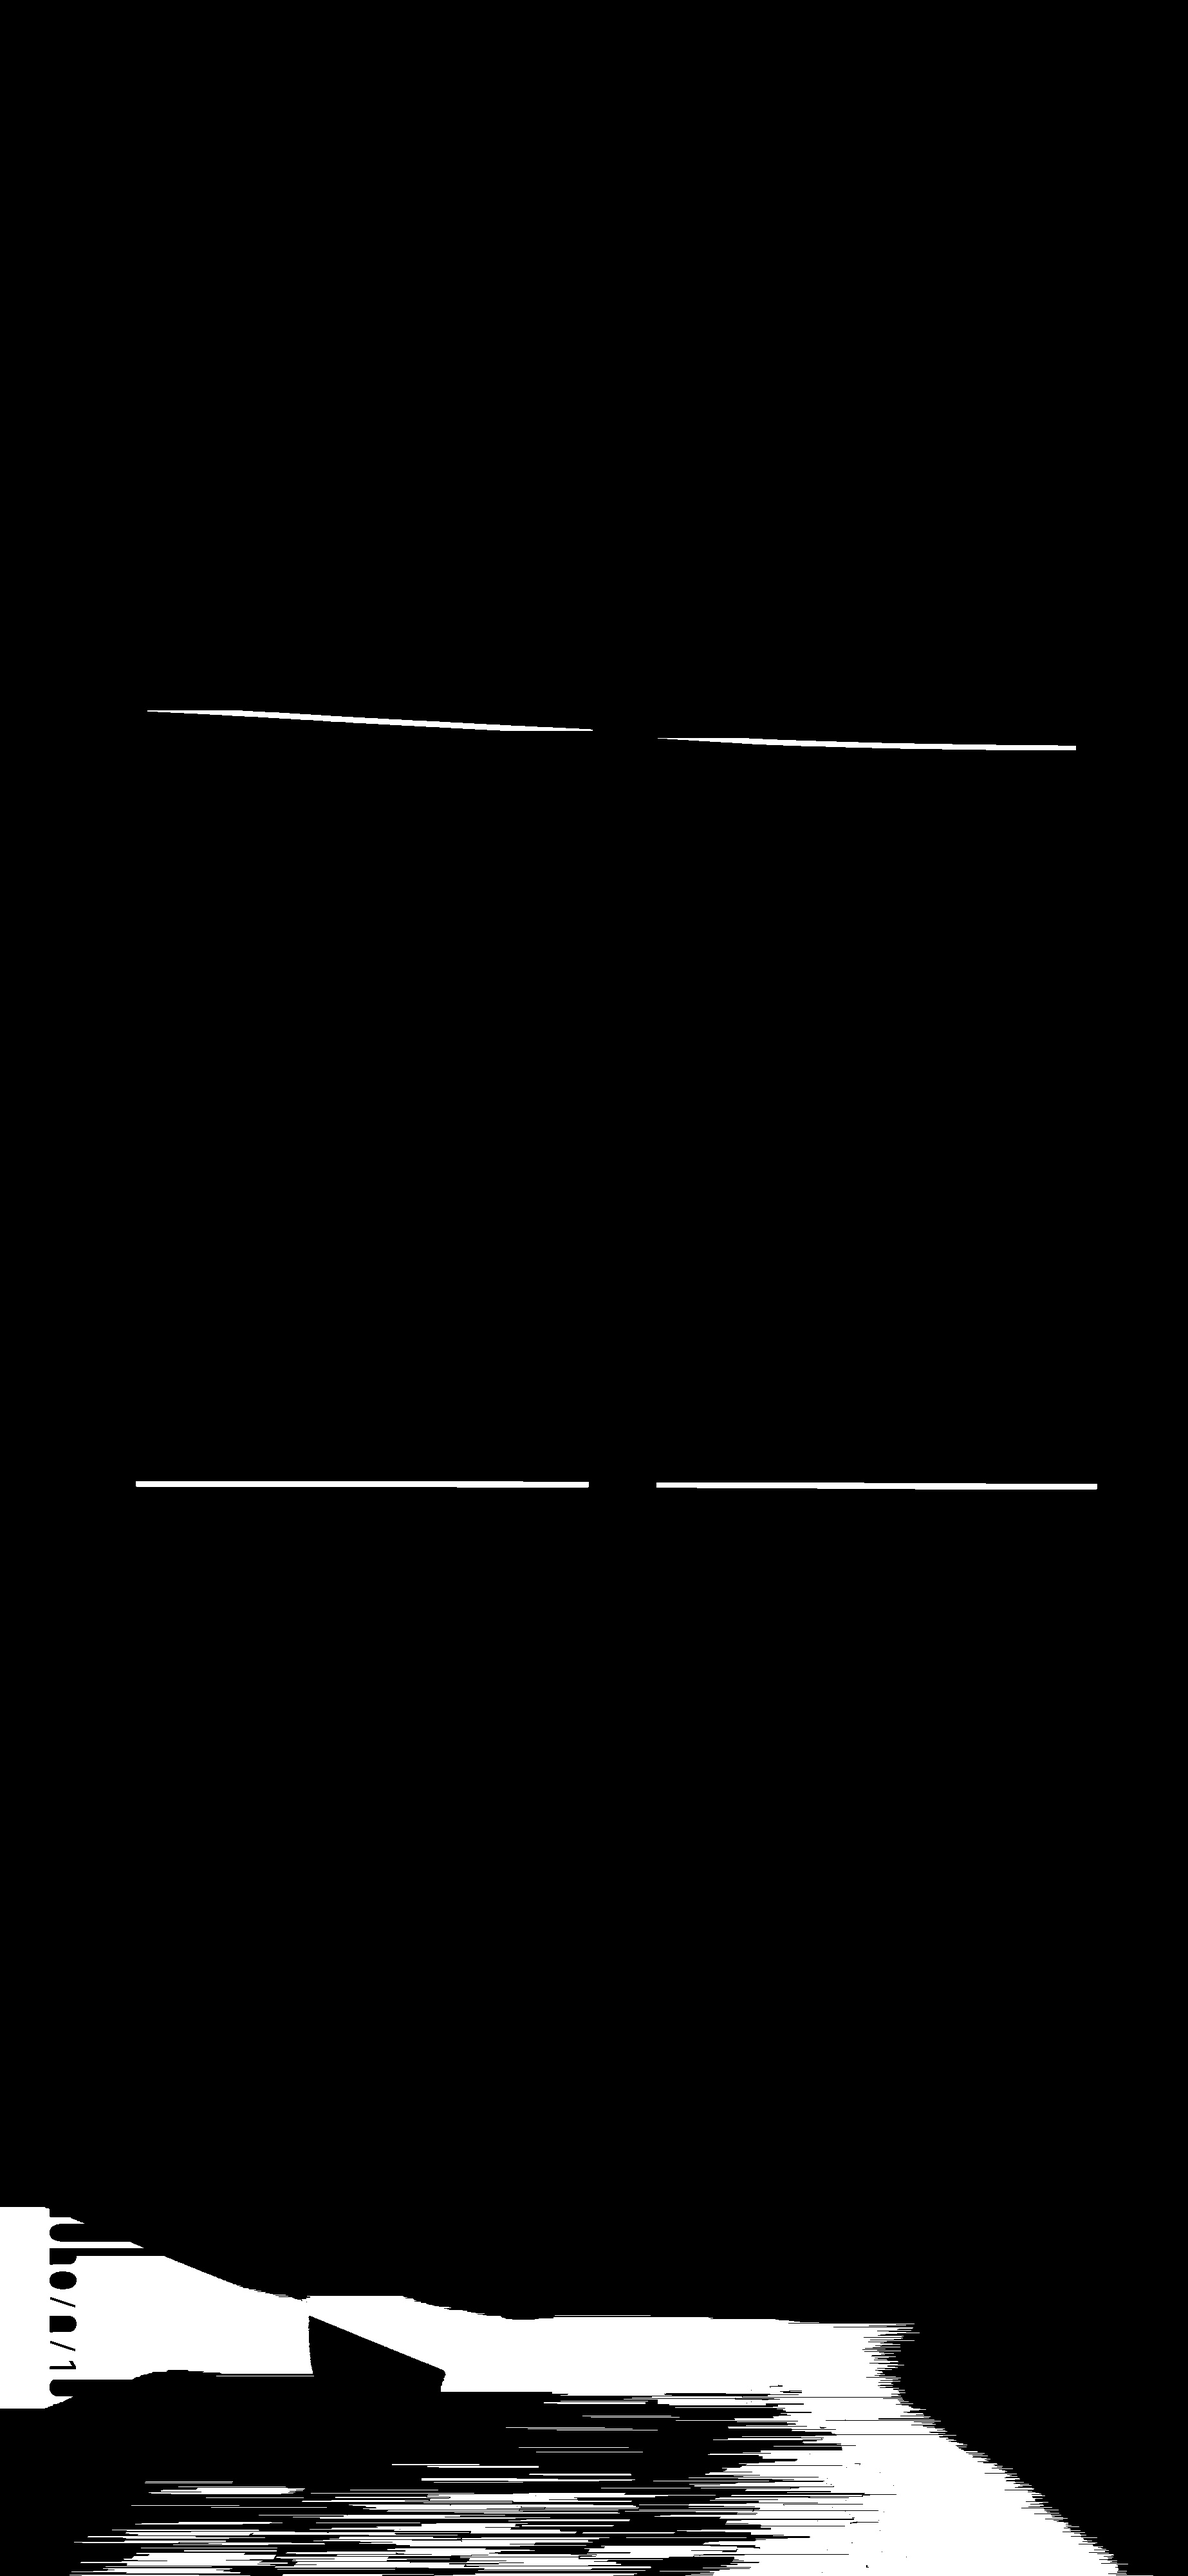
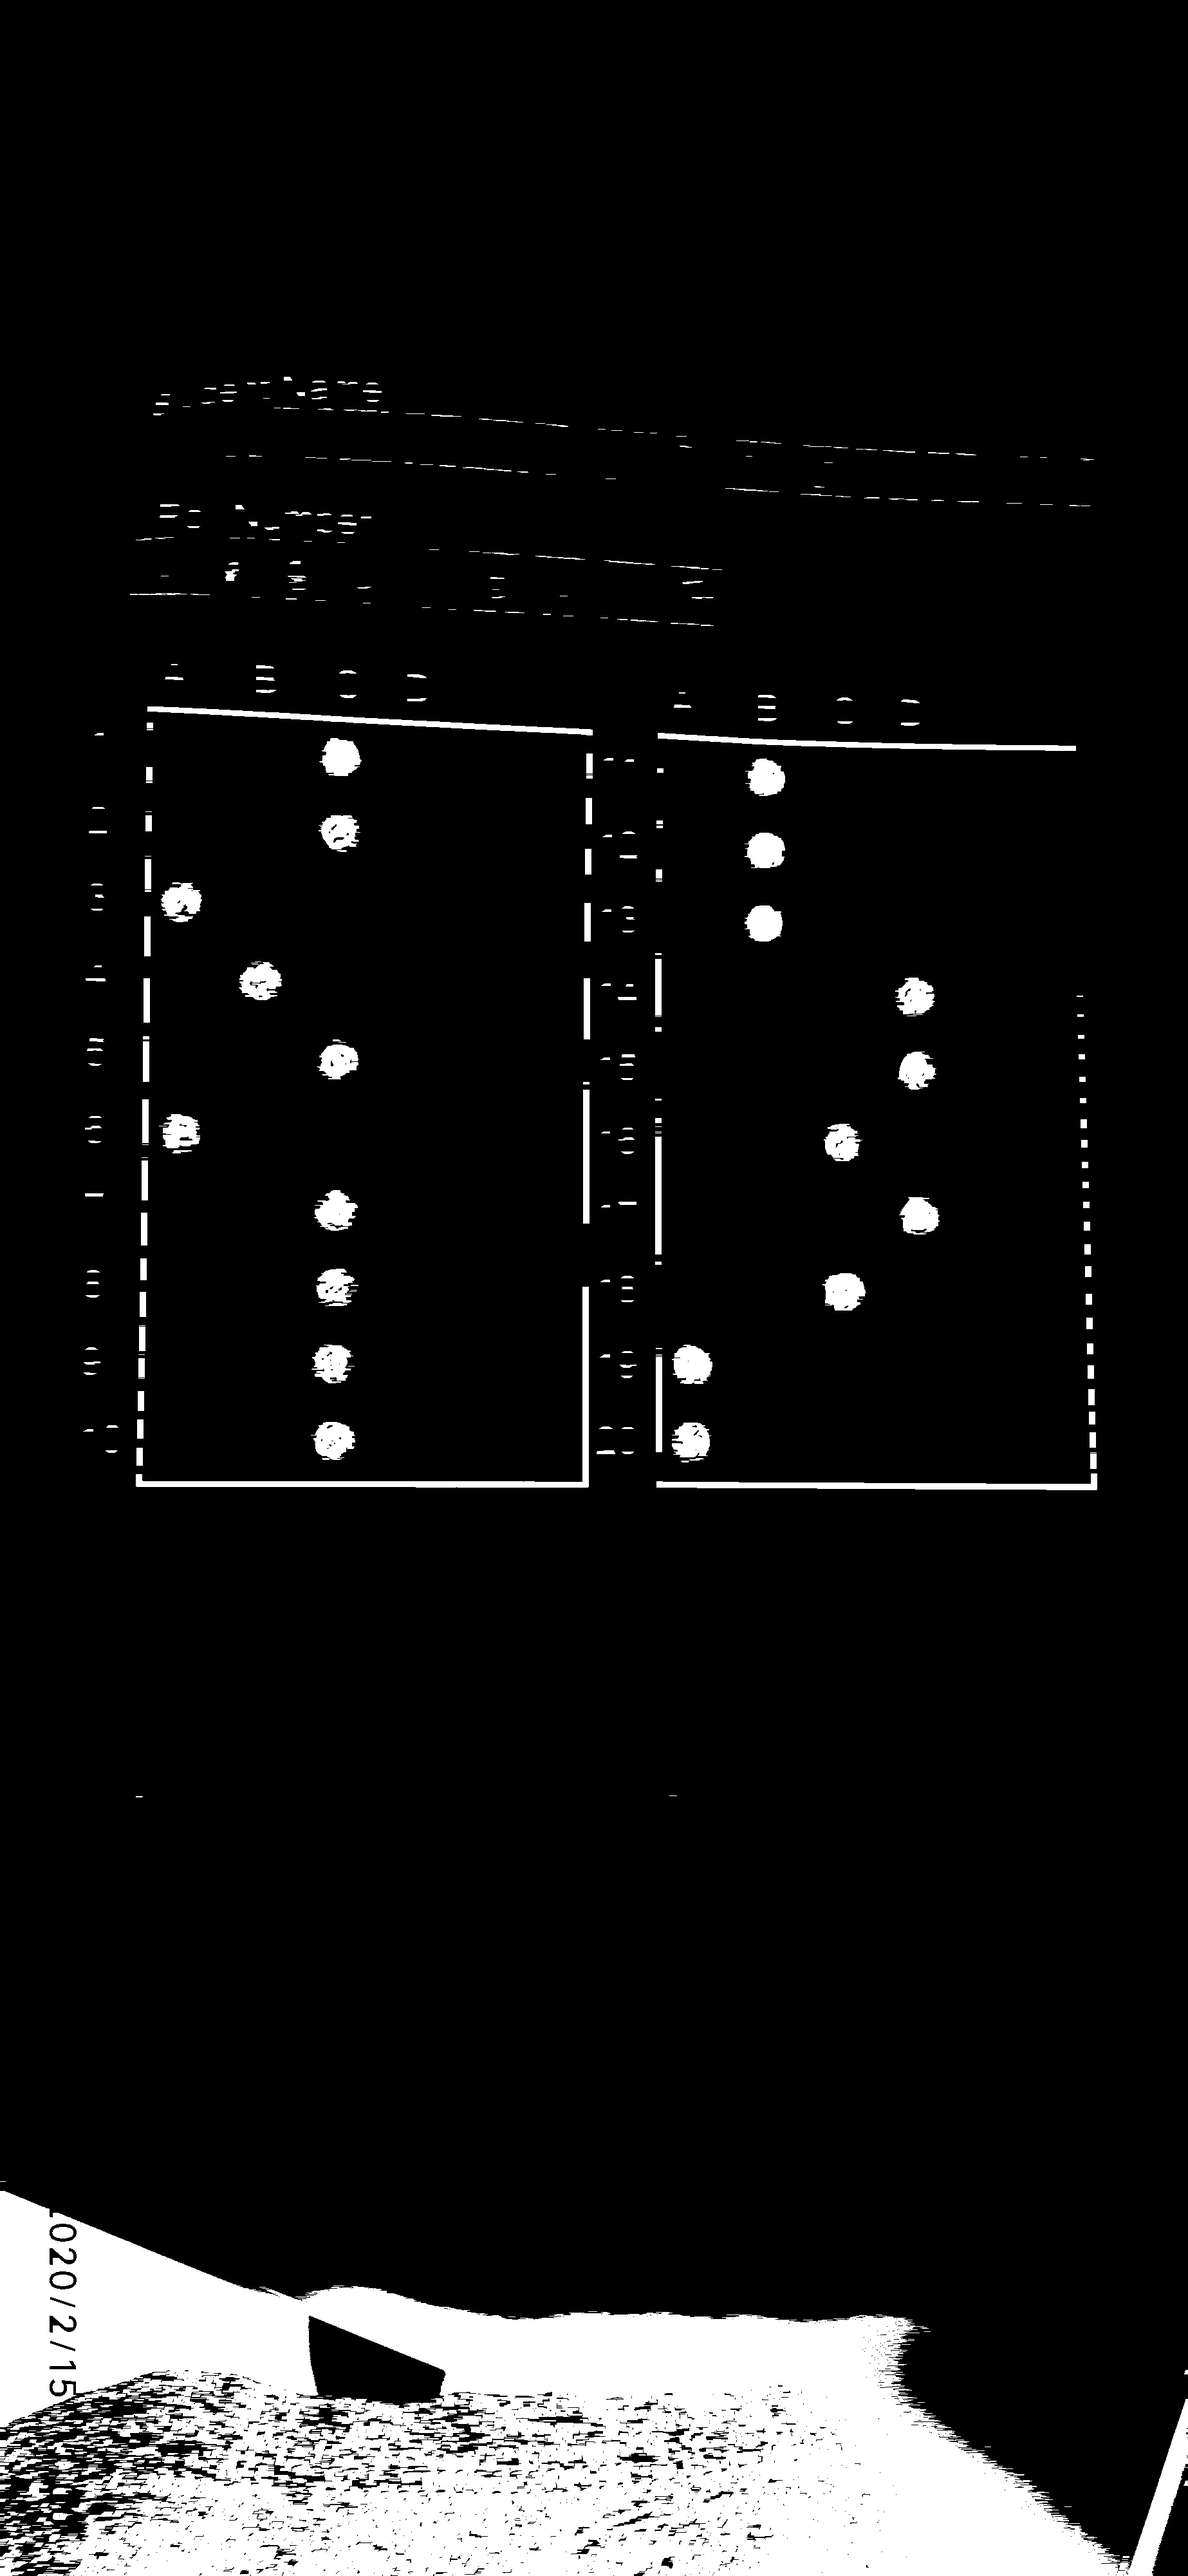
made changes

diff --git a/box_detection.py b/box_detection.py
@@ -1,7 +1,7 @@
 import cv2
 import numpy as np
 import os
-
+from transform_example import transfer
 
 def sort_contours(cnts, method="left-to-right"):
     # initialize the reverse flag and sort index
@@ -29,14 +29,24 @@ def sort_contours(cnts, method="left-to-right"):
 def box_extraction(img_for_box_extraction_path, cropped_dir_path):
 
     img = cv2.imread(img_for_box_extraction_path, 0)  # Read the image
+    img2 = cv2.imread(img_for_box_extraction_path, 0)
+    # img = cv2.blur(img,(10,10))
     (thresh, img_bin) = cv2.threshold(img, 128, 255,
                                       cv2.THRESH_BINARY | cv2.THRESH_OTSU)  # Thresholding the image
     img_bin = 255-img_bin  # Invert the image
 
+    # img = np.full((100,80,3), 12, np.uint8)
+
+
+    # threshold image
+    # ret, threshed_img = cv2.threshold(cv2.cvtColor(img, cv2.COLOR_BGR2GRAY),
+                    # 127, 255, cv2.THRESH_BINARY)
+    img = cv2.blur(img,(20,20))
+
     cv2.imwrite("Image_bin.jpg",img_bin)
 
     # Defining a kernel length
-    kernel_length = np.array(img).shape[1]//40
+    kernel_length = np.array(img).shape[1]//400
 
     # A verticle kernel of (1 X kernel_length), which will detect all the verticle lines from the image.
     verticle_kernel = cv2.getStructuringElement(cv2.MORPH_RECT, (1, kernel_length))
@@ -68,7 +78,7 @@ def box_extraction(img_for_box_extraction_path, cropped_dir_path):
     cv2.imwrite("img_final_bin.jpg",img_final_bin)
     # Find contours for image, which will detect all the boxes
     contours, hierarchy = cv2.findContours(
-        img_final_bin, cv2.RETR_TREE, cv2.CHAIN_APPROX_SIMPLE)
+        img_final_bin, cv2.RETR_TREE, cv2.CHAIN_APPROX_NONE)
     # print(len(contours))
     # Sort all the contours by top to bottom.
     (contours, boundingBoxes) = sort_contours(contours, method="left-to-right")
@@ -86,18 +96,110 @@ def box_extraction(img_for_box_extraction_path, cropped_dir_path):
 
 
             if ((x>(x1+20))):
-                if (w > 400 and h > 60) and (h > 1.5*w):
+            # if ((x==x1)):
+                if (w > 400 and h > 60) and (h > 1.3*w):
                     idx += 1
-                    # print (x1)
-                    # print ("    ")
-                    # print(x)
-                    # print ("\n")
-                    # print (x)
-                    # print ("\n")
-                    new_img = img[y:y+h, x:x+w]
+
+                    rect = cv2.minAreaRect(c)
+                    box = cv2.boxPoints(rect)
+
+                    box = np.int0(box)
+                    # draw a red 'nghien' rectangle
+                    cv2.drawContours(img, [box], 0, (0, 0, 255))
+                    cv2.imwrite("contour1.png", img)
+                    # finally, get the min enclosing circle
+
+
+                    # hull = cv.c(points[, hull[, clockwise[, returnPoints]]
+                    # hull = cv2.convexHull(c)
+                    # print(hull)
+
+
+
+                    # extLeft = tuple(c[c[:, :, 0].argmin()][0])
+                    # extRight = tuple(c[c[:, :, 0].argmax()][0])
+                    # extTop = tuple(c[c[:, :, 1].argmin()][0])
+                    # extBot = tuple(c[c[:, :, 1].argmax()][0])
+
+                    # hull = []
+                    #
+                    # # calculate points for each contour
+                    #
+                    # hull.append(cv2.convexHull(c, False))
+                    #
+                    # # create an empty black image
+                    # drawing = np.zeros((thresh.shape[0], thresh.shape[1], 3), np.uint8)
+                    #
+                    # # draw contours and hull points
+                    #
+                    # color_contours = (0, 255, 0) # color for contours
+                    # color = (255, 255, 255) # color for convex hull
+                    # # draw contours
+                    # cv2.drawContours(drawing, contours, i, color_contours, 2, 8, hierarchy)
+                    # # draw convex hull
+                    # cv2.drawContours(drawing, hull, i, color, 2, 8)
+
+
+                    extTop="(%s, %s)" %(box[1][0],box[1][1])
+                    extRight="(%s, %s)" %(box[2][0],box[2][1])
+                    extBot="(%s, %s)" %(box[3][0],box[3][1])
+                    extLeft="(%s, %s)" %(box[0][0],box[0][1])
+
+                    coords="[%s, %s, %s, %s]" %(extTop,extRight,extBot,extLeft)
+
+                    new_img = transfer(img2, coords)
                     cv2.imwrite(cropped_dir_path+str(idx) + '.png', new_img)
+
+
+
+                    box = np.int0(box)
+                    # draw a red 'nghien' rectangle
+                    cv2.drawContours(img, [box], 0, (0, 0, 255))
+                    cv2.imwrite("contour1.png", img)
+                    # coords="[(189.96536, 1084.9089), (822.29297, 1050.0603), (990.5377, 2167.3167), (328.2101, 2246.1653)]"
+                    # [(189.96536, 1084.9089), (852.29297, 1006.0603), (990.5377, 2167.3167), (328.2101, 2246.1653)]
                     x1=x
                     y1=y
+                    # print(coords)
+
+                    # img1 = cv2.imread(img_for_box_extraction_path, 0)  # Read the image
+                    # cv2.drawContours(img1,c, -1, (0, 255, 255), 2)
+                    # cv2.circle(img1, (189,1084) , 8, (0, 0, 255), -1)
+                    # cv2.circle(img1, (852,1006) , 8, (0, 255, 0), -1)
+                    # cv2.circle(img1, (990,2167) , 8, (255, 0, 0), -1)
+                    # cv2.circle(img1, (328,2246) , 8, (255, 255, 0), -1)
+                    # cv2.imwrite('new.png', img1)
+
+
+                    # if((extLeft[1])>(extBot[1])):
+                    #     coords="[%s, %s, %s, %s]" %(extLeft,extTop,extRight,extBot)
+                    #
+                    # else:
+                    #     coords="[%s, %s, %s, %s]" %(extTop,extRight,extBot,extLeft)
+
+                    # print (extLeft)
+                    # print ("    ")
+                    # print(extRight)
+                    # print ("    ")
+                    # print (extTop)
+                    # print ("    ")
+                    # print(extBot)
+                    # print ("\n")
+
+                    # box = cv2.boxPoints(c)
+
+                    # coords=(str1+ (extLeft) + str3 + (extTop)+ str3 +(extRight)+ str3 + (extBot)+str2)
+
+
+                    # print(coords)
+
+                    # print (x1)
+                    # print ("    ")
+                    # print(w)
+                    # print ("\n")
+                    # print (h)
+                    # print ("\n")
+
 
 
 
@@ -118,16 +220,11 @@ for j in range(1, 68):
     dirname =("test/Cropped"+ str(j))
     os.mkdir(dirname)
 
-# for j in range(1, 11):
-# 	inputs = cv2.imread("result/result_" + str(j) + ".jpg",0)
-#
 
 
-# data/image_20.jpg
-
-for j in range(1, 68):
+for j in range(1,68):
     if((j!=26)and(j!=48)):
         box_extraction("data/image_"+str(j)+".jpg", "./test/Cropped"+str(j)+"/")
 
 
-# box_extraction("image_6.jpg", "./Cropped/")
+# box_extraction("image_312.jpg", "./Cropped/")

diff --git a/pyimagesearch/transform.py b/pyimagesearch/transform.py
@@ -1,0 +1,64 @@
+# import the necessary packages
+import numpy as np
+import cv2
+
+def order_points(pts):
+	# initialzie a list of coordinates that will be ordered
+	# such that the first entry in the list is the top-left,
+	# the second entry is the top-right, the third is the
+	# bottom-right, and the fourth is the bottom-left
+	rect = np.zeros((4, 2), dtype = "float32")
+
+	# the top-left point will have the smallest sum, whereas
+	# the bottom-right point will have the largest sum
+	s = pts.sum(axis = 1)
+	rect[0] = pts[np.argmin(s)]
+	rect[2] = pts[np.argmax(s)]
+
+	# now, compute the difference between the points, the
+	# top-right point will have the smallest difference,
+	# whereas the bottom-left will have the largest difference
+	diff = np.diff(pts, axis = 1)
+	rect[1] = pts[np.argmin(diff)]
+	rect[3] = pts[np.argmax(diff)]
+
+	# return the ordered coordinates
+	return rect
+
+def four_point_transform(image, pts):
+	# obtain a consistent order of the points and unpack them
+	# individually
+	rect = order_points(pts)
+	(tl, tr, br, bl) = rect
+
+	# compute the width of the new image, which will be the
+	# maximum distance between bottom-right and bottom-left
+	# x-coordiates or the top-right and top-left x-coordinates
+	widthA = np.sqrt(((br[0] - bl[0]) ** 2) + ((br[1] - bl[1]) ** 2))
+	widthB = np.sqrt(((tr[0] - tl[0]) ** 2) + ((tr[1] - tl[1]) ** 2))
+	maxWidth = max(int(widthA), int(widthB))
+
+	# compute the height of the new image, which will be the
+	# maximum distance between the top-right and bottom-right
+	# y-coordinates or the top-left and bottom-left y-coordinates
+	heightA = np.sqrt(((tr[0] - br[0]) ** 2) + ((tr[1] - br[1]) ** 2))
+	heightB = np.sqrt(((tl[0] - bl[0]) ** 2) + ((tl[1] - bl[1]) ** 2))
+	maxHeight = max(int(heightA), int(heightB))
+
+	# now that we have the dimensions of the new image, construct
+	# the set of destination points to obtain a "birds eye view",
+	# (i.e. top-down view) of the image, again specifying points
+	# in the top-left, top-right, bottom-right, and bottom-left
+	# order
+	dst = np.array([
+		[0, 0],
+		[maxWidth - 1, 0],
+		[maxWidth - 1, maxHeight - 1],
+		[0, maxHeight - 1]], dtype = "float32")
+
+	# compute the perspective transform matrix and then apply it
+	M = cv2.getPerspectiveTransform(rect, dst)
+	warped = cv2.warpPerspective(image, M, (maxWidth, maxHeight))
+
+	# return the warped image
+	return warped

diff --git a/transform_example.py b/transform_example.py
@@ -1,0 +1,45 @@
+# USAGE
+# python transform_example.py --image images/example_01.png --coords "[(73, 239), (356, 117), (475, 265), (187, 443)]"
+# python transform_example.py --image images/example_02.png --coords "[(101, 185), (393, 151), (479, 323), (187, 441)]"
+# python transform_example.py --image images/example_03.png --coords "[(63, 242), (291, 110), (361, 252), (78, 386)]"
+
+# import the necessary packages
+from pyimagesearch.transform import four_point_transform
+import numpy as np
+# import argparse
+import cv2
+
+# construct the argument parse and parse the arguments
+# ap = argparse.ArgumentParser()
+# ap.add_argument("-i", "--image", help = "path to the image file")
+# ap.add_argument("-c", "--coords",
+# 	help = "comma seperated list of source points")
+# args = vars(ap.parse_args())
+
+def transfer(image, coords):
+    # image=cv2.imread("image_7.jpg", 0)
+
+    # load the image and grab the source coordinates (i.e. the list of
+    # of (x, y) points)
+    # NOTE: using the 'eval' function is bad form, but for this example
+    # let's just roll with it -- in future posts I'll show you how to
+    # automatically determine the coordinates without pre-supplying them
+    # image = cv2.imread(args["image"])
+
+    # coords="[(940, 1113), (1734, 2136), (1553, 1036), (1093, 2225)]"
+    # pts = np.array(eval("[(940, 1113), (1734, 2136), (1553, 1036), (1093, 2225)]"), dtype = "float32")
+    pts = np.array(eval(coords), dtype = "float32")
+
+    # pts = np.array(eval(args["coords"]), dtype = "float32")
+
+    # apply the four point tranform to obtain a "birds eye view" of
+    # the image
+    warped = four_point_transform(image, pts)
+
+    # cv2.imwrite("warped.jpg",warped)
+    return warped
+
+    # show the original and warped images
+    # cv2.imshow("Original", image)
+    # cv2.imshow("Warped", warped)
+    # cv2.waitKey(0)
